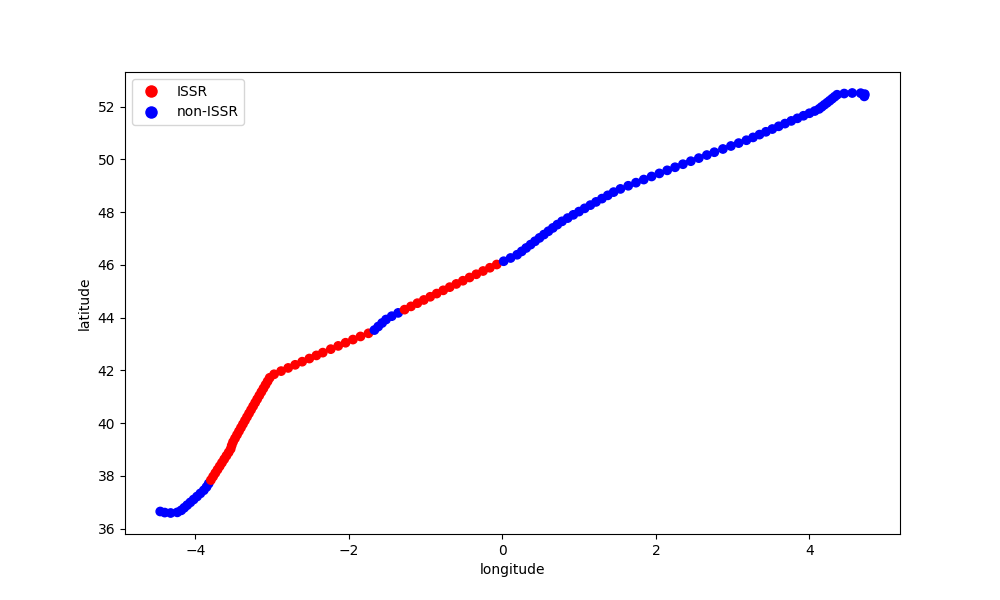
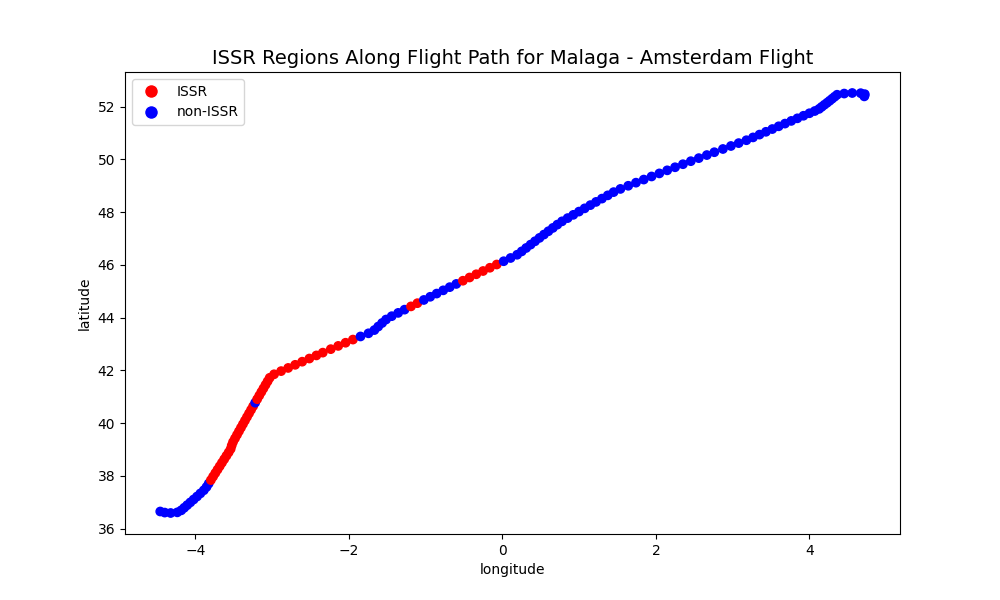
issr regions

Changed region(s): [[0.217, 0.06, 0.806, 0.12], [0.403, 0.45, 0.465, 0.51], [0.341, 0.54, 0.372, 0.57]]

diff --git a/climate_impact.py b/climate_impact.py
@@ -1,6 +1,7 @@
 import pandas as pd
 import numpy as np
 import xarray as xr
+import copy
 import matplotlib
 import matplotlib.colors as mcolors
 matplotlib.use('Agg')  # Prevents GUI windows
@@ -68,7 +69,7 @@ SAF = 0    # 0, 20, 100 unit = %
 #VERGEET NIET SAF LHV EN H2O en CO2  MEE TE GEVEN AAN PYCONTRAILS EN ACCF!!!!!!!!!!!!!!!!!!!!!!!!!!!!!!!!!!!!!!!
 flight = 'malaga'
 aircraft = 'A20N_full'        # A20N ps model, A20N_wf is change in Thrust and t/o and idle fuel flows
-prediction = 'pycontrails'            #mees or pycontrails
+prediction = 'mees'            #mees or pycontrails
                             # A20N_wf_opr is with changed nominal opr and bpr
                             # A20N_full has also the eta 1 and 2 and psi_0
 diurnal = 'day'             # day / night
@@ -90,7 +91,7 @@ for directory in directories:
 
 # Convert the water_injection values to strings, replacing '.' with '_'
 formatted_values = [str(value).replace('.', '_') for value in water_injection]
-file_path = f'results/{flight}/{flight}_model_{engine_model}_SAF_{SAF}_aircraft_{aircraft}_WAR_{formatted_values[0]}_{formatted_values[1]}_{formatted_values[2]}.csv'
+file_path = f'main_results_figures/results/{flight}/malaga/emissions/{engine_model}_SAF_{SAF}_{aircraft}_WAR_{formatted_values[0]}_{formatted_values[1]}_{formatted_values[2]}.csv'
 
 df = pd.read_csv(file_path)
 if prediction == 'pycontrails':
@@ -114,15 +115,15 @@ if prediction != 'pycontrails':
     df = df.drop(columns=columns_to_drop, errors='ignore')
 
     df = df.rename(columns={
-        'EI_nvpm_number_p3t3_meem': 'nvpm_ei_n',
+        'ei_nvpm_number_p3t3_meem': 'nvpm_ei_n',
         'rhi': 'rhi_emissions',
         'specific_humidity': 'specific_humidity_emissions'
     })
 
-    df['ei_nox'] = df['EI_nox_p3t3'] / 1000
-    df['nvpm_ei_m'] = df['EI_nvpm_mass_p3t3_meem'] / 10**6
+    df['ei_nox'] = df['ei_nox_p3t3'] / 1000
+    df['nvpm_ei_m'] = df['ei_nvpm_mass_p3t3_meem'] / 10**6
 
-    df = df.drop(columns=['EI_nox_p3t3', 'EI_nvpm_mass_p3t3_meem'], errors='ignore')
+    df = df.drop(columns=['ei_nox_p3t3', 'ei_nvpm_mass_p3t3_meem'], errors='ignore')
 
     """Correct inputs for pycontrails climate impact methods -> compute everything for two engines"""
     df['fuel_flow'] = 2*df['fuel_flow_gsp']
@@ -211,9 +212,9 @@ elif weather_model == 'era5model':
         pressure_levels=pressure_levels_model,
         cachestore=local_cachestore_era5m
     )
-    met = era5ml.open_metdataset().copy()
+    met = era5ml.open_metdataset()
     # met = add_relative_humidity_to_metdataset(met)
-    met_issr = era5ml.open_metdataset().copy()
+    met_issr = copy.deepcopy(met)
     # met_issr = add_relative_humidity_to_metdataset(met_issr)
     met_cocip = era5ml.open_metdataset().copy()
     # met_cocip = add_relative_humidity_to_metdataset(met_cocip)
@@ -266,20 +267,25 @@ print(f"Total Solar Radiation: {total_solar_radiation}")
 print(f"Diurnal: {diurnal}")
 
 """ISSRs"""
-# issr_mds = ISSR(met=met, humidity_scaling=ExponentialBoostHumidityScaling(rhi_adj=0.9779, rhi_boost_exponent=1.635,
-#                                                                         clip_upper=1.65)).eval()
-#
-# issr = issr_mds["issr"]
-# da = issr.data.isel(time=0)
-# target_levels = [200, 300, 400, 600, 800, 1000]
-# da = da.sel(level=target_levels, method="nearest")
-# da["altitude_m"] = units.pl_to_m(da["level"]).round().astype(int)
-# da = da.swap_dims(level="altitude_m")
-# da = da.sel(altitude_m=da["altitude_m"].values[::-1])
-# da = da.squeeze()
-# da.plot(x="longitude", y="latitude",  col="altitude_m", col_wrap=3, cmap="Reds", figsize=(12, 12));
-# plt.savefig(f'figures/{flight}/climate/issr_regions.png', format='png')
+issr_mds = ISSR(met=met, humidity_scaling=ExponentialBoostHumidityScaling(rhi_adj=0.9779, rhi_boost_exponent=1.635,
+                                                                        clip_upper=1.65)).eval()
 
+issr = issr_mds["issr"]
+da = issr.data.isel(time=0)
+target_levels = [200, 300, 400, 600, 800, 1000]
+da = da.sel(level=target_levels, method="nearest")
+da["altitude_m"] = units.pl_to_m(da["level"]).round().astype(int)
+da = da.swap_dims(level="altitude_m")
+da = da.sel(altitude_m=da["altitude_m"].values[::-1])
+da = da.squeeze()
+# Filter data for the specified lat/lon range
+da = da.sel(latitude=slice(30, 60), longitude=slice(-5, 5))
+g = da.plot(x="longitude", y="latitude", col="altitude_m", col_wrap=3, cmap="Reds", figsize=(12, 12))
+# g.fig.subplots_adjust(top=0.9)
+# Add suptitle to the figure
+# g.fig.suptitle("ISSR Regions at Different Altitudes", fontsize=16, y=1.02)  # Adjust y to move title up
+plt.savefig(f'figures/{flight}/climate/issr_regions.png', format='png')
+print("saved")
 issr = ISSR(met=met_issr, humidity_scaling=ExponentialBoostHumidityScaling(rhi_adj=0.9779, rhi_boost_exponent=1.635,
                                                                         clip_upper=1.65))
 issr_flight = issr.eval(source=fl_issr)
@@ -308,6 +314,9 @@ legend_elements = [
 ax.legend(handles=legend_elements, loc="upper left")
 
 ax.set(xlabel="longitude", ylabel="latitude");
+
+# Add title
+ax.set_title("ISSR Regions Along Flight Path for Malaga - Amsterdam Flight", fontsize=14)
 plt.savefig(f'figures/{flight}/climate/{prediction}/{weather_model}/issr/issr_regions_along_flight.png', format='png')
 
 

diff --git a/main.py b/main.py
@@ -73,8 +73,8 @@ flight_trajectories_to_simulate = {
     "hel_kef": False,
     "lhr_ist": False,
     "sfo_dfw": False,
-    "sin_maa": True,
-    "malaga": False
+    "sin_maa": False,
+    "malaga": True
 }
 
 # Debug flag: Set to True to process only **one** flight for testing
@@ -93,15 +93,15 @@ time_bounds_dict = {
 engine_models = {
     "GTF1990": False,
     "GTF2000": False,
-    "GTF": False,
-    "GTF2035": True,
+    "GTF": True,
+    "GTF2035": False,
     "GTF2035_wi_gass_on_design": False
 }
 
 # SAF values based on engine model
 saf_dict = {
-    "SAF20": True,
-    "SAF100": True
+    "SAF20": False,
+    "SAF100": False
 }
 
 prediction = "mees"
@@ -129,7 +129,7 @@ def process_flight(trajectory, flight_file, flight_path):
             continue
 
         # Determine SAF values
-        saf_values = [] # hier normaal 0!!!!!
+        saf_values = [0] # hier normaal 0!!!!!
         if engine_model in ("GTF2035", "GTF2035_wi_gass_on_design"):
             if saf_dict["SAF20"]:
                 saf_values.append(20)

diff --git a/main_climate.py b/main_climate.py
@@ -276,6 +276,7 @@ def run_climate(trajectory, flight_path, engine_model, water_injection, SAF, air
     ax.legend(handles=legend_elements, loc="upper left")
 
     ax.set(xlabel="longitude", ylabel="latitude");
+    ax.set_title(f"ISSR Regions Along Flight Path for {flight} Flight", fontsize=14)
     plt.savefig(f'main_results_figures/figures/{trajectory}/{flight}/climate/{prediction}/{weather_model}/issr/{engine_model}_SAF_{SAF}_issr_regions_along_flight.png', format='png')
     plt.close()
 
